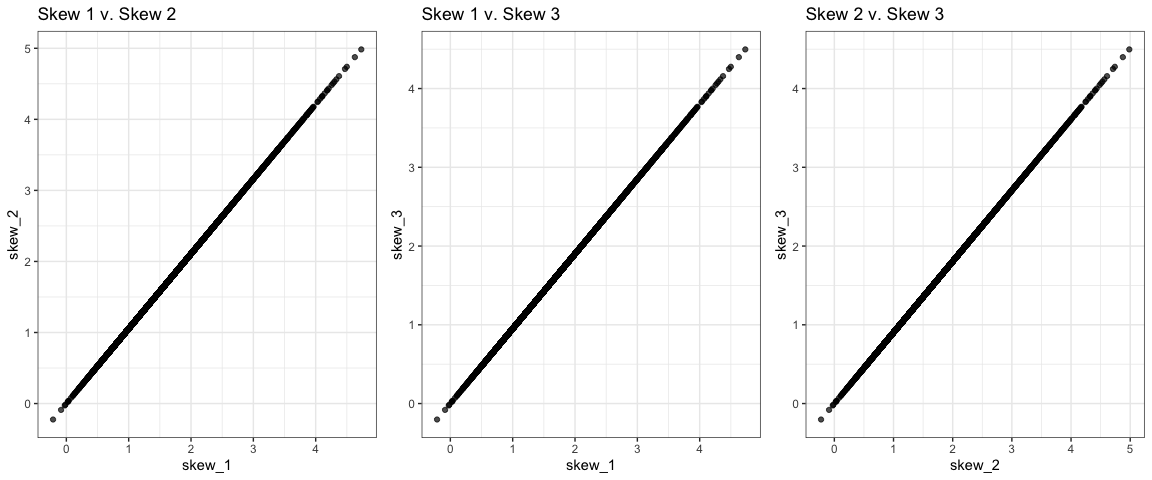
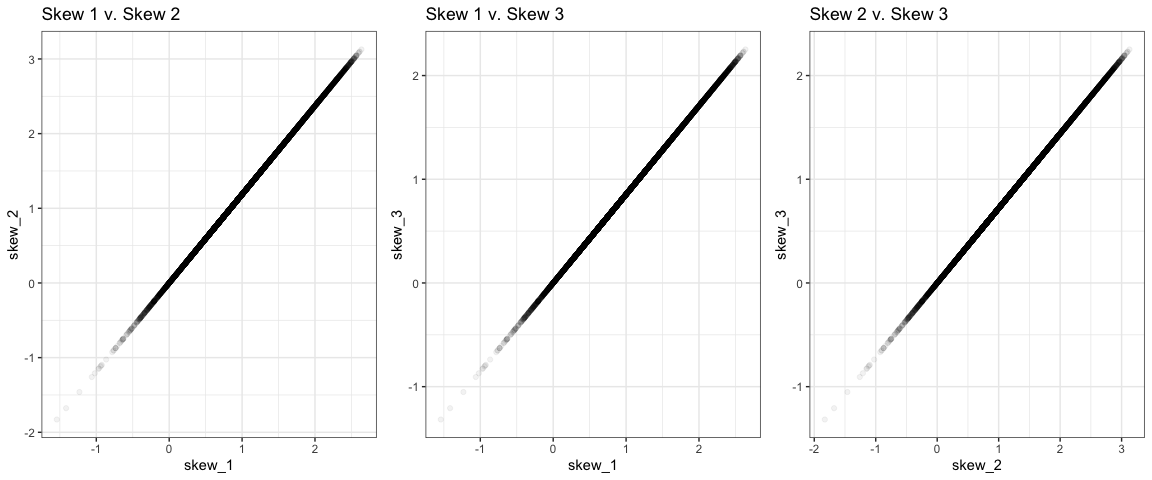
switch to vegan diversity indices from evar

diff --git a/reports/compare_skew.md b/reports/compare_skew.md
@@ -24,13 +24,13 @@ library(dplyr)
 ``` r
 library(scads)
 library(ggplot2)
-dataset <- "plants"
+dataset <- "large"
 ```
 
     ## Loading in data version 1.127.0
 
-This report is for Portal winter annuals 1994, 10000 draws.
-===========================================================
+This report is for Portal control rodents 1990-95, 10000 draws.
+===============================================================
 
 Density plots of raw rank abundances
 ------------------------------------
@@ -52,9 +52,36 @@ Are literally all of the ranks exactly the same?
 
     ## [1] TRUE
 
-Skewness v Evar
----------------
+Diversity indices
+-----------------
 
-![](compare_skew_files/figure-markdown_github/add%20evar-1.png)
+Moving forward, we'll just use one skewness alogrithm. Comparing the ranks for skewness and diversity indices calculated using `vegan`:
 
-    ## [1] FALSE
+-   Skewness
+-   Shannon-Weiner diversity, natural log base
+-   Simpson's index (1-D)
+-   Fisher's alpha (not bringing this one forward - for fixed S and N, alpha does not change. This is expected because the logseries is entirely determined by S and N)
+
+<!-- -->
+
+    ## Loading required package: permute
+
+    ## Loading required package: lattice
+
+    ## This is vegan 2.5-4
+
+### Diversity index 1:1 plots
+
+![](compare_skew_files/figure-markdown_github/rank%201%20to%201%20plots-1.png)
+
+    ## TableGrob (1 x 3) "arrange": 3 grobs
+    ##   z     cells    name           grob
+    ## 1 1 (1-1,1-1) arrange gtable[layout]
+    ## 2 2 (1-1,2-2) arrange gtable[layout]
+    ## 3 3 (1-1,3-3) arrange gtable[layout]
+
+There is a general, but not perfect, relationship between skewness and other diversity indices.
+
+### Position of empirical within sim distributions
+
+<img src="compare_skew_files/figure-markdown_github/sim emp plots-1.png" style="display: block; margin: auto;" />
